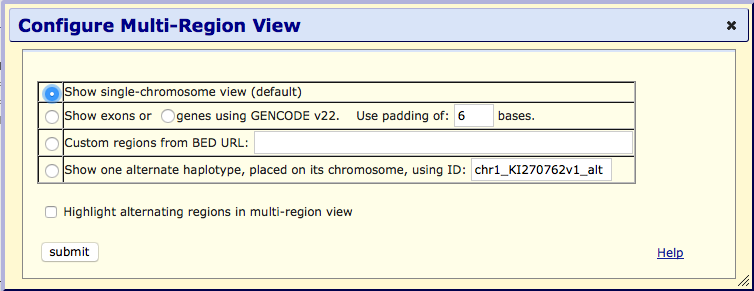
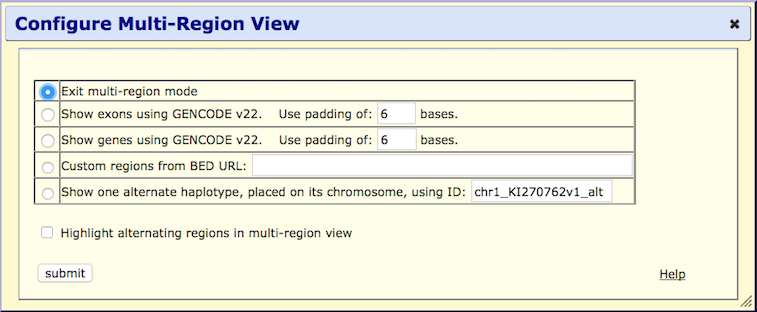
Fixing typo and updating text to go along with new config window, updating picture to remove TEST, refs #16565

Changed region(s): [[0.0, 0.0, 1.0, 1.0], [0.061, 0.7113, 0.4881, 0.7732], [0.8541, 0.8351, 0.9151, 0.8969]]

diff --git a/src/hg/htdocs/goldenPath/help/multiRegionHelp.html b/src/hg/htdocs/goldenPath/help/multiRegionHelp.html
@@ -108,16 +108,15 @@
                 src="../../images/MultiRegionButton.png">
         <p>
         <b>Step 3. Configure the multi-region view</b><br>
-           By default, the browser is set to the traditional <b>single-chromosome 
-	   view</b> display mode. The display can be reset to this mode at any time by
-	   clicking this option.
+           By default, the <b>Exit multi-region mode</b> button is selected. 
+           This button returns the display to the traditional view.
 	   <ul>
 	      <li>To activate a multi-region view, click one of these options: <br>
               <table cellpadding=15>
                 <tr><td>
                     <ul>
-                       <li><b>Show exons</b> -- display only the exonic regions
-                       <li><b>genes using</b> -- display only those regions with gene
+                       <li><b>Show exons using</b> -- display only the exonic regions
+                       <li><b>Show genes using</b> -- display only those regions with gene
                        annotations in the specified genes track
                        <li><b>Custom regions from BED URL</b> -- display only those regions
                        listed in a specified BED file
@@ -188,7 +187,7 @@
         <b>Gene-Only Mode</b><br>
 	<p>
         The gene-only view displays the bases and annotations that fall within the
-        coordinates of a gene, but hides all of the intergenic base except those used for
+        coordinates of a gene, but hides all of the intergenic bases except those used for
         padding (<a href="#Example2">Example 2</a>).  As with exon-only mode, the padding field 
 	sets the number of intergenic bases displayed to visually separate each gene slice. 
 
@@ -227,7 +226,7 @@
            <ul style="list-style:none;">
               <li>database
               <li>shortDesc
-              <!--<li>padding-->
+              <li>padding
            </ul>
         </td>
         <td>
@@ -236,22 +235,17 @@
 		  file is loaded onto a different assembly, the custom regions mode will not work.
               <li>(Optional) A short description of the custom region, displayed next to 
 		  the chromosome ideogram.
-              <!-- padding throwing debug error right now, uncomment when fixed
               <li>Sets the size of the padding on either side of a BED entry in the browser
                   tracks window. 
-              -->
            </ul>
         </td></tr>
         </table>
         <br>
         Here is an example of a BED3 file with comments:<br>
-        <!-- add in
-          #padding 6
-             to this example when fixed.
-        --> 
         <pre>
       #database hg38
       #shortDesc Example of a short description
+      #padding 6
       chr1 pos1 pos2
       chr2 pos1 pos2
         </pre>
